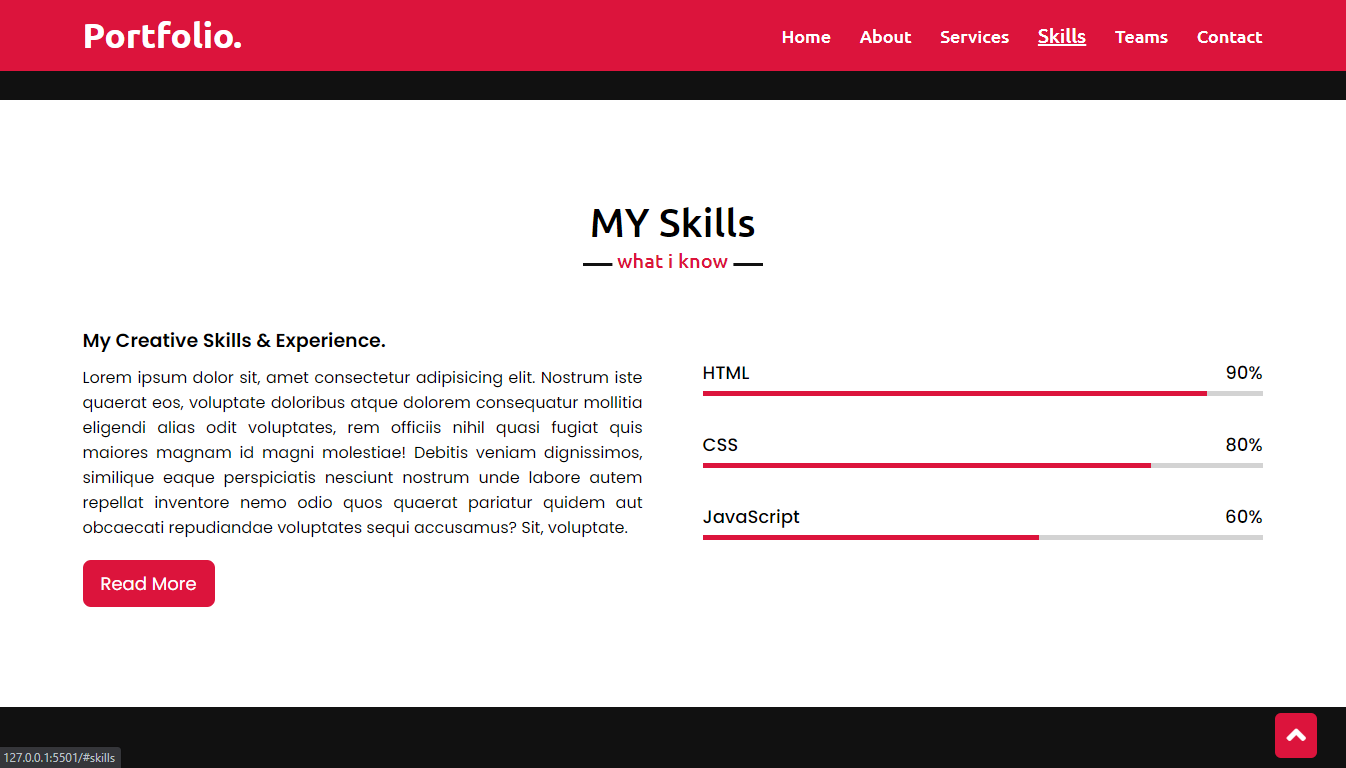
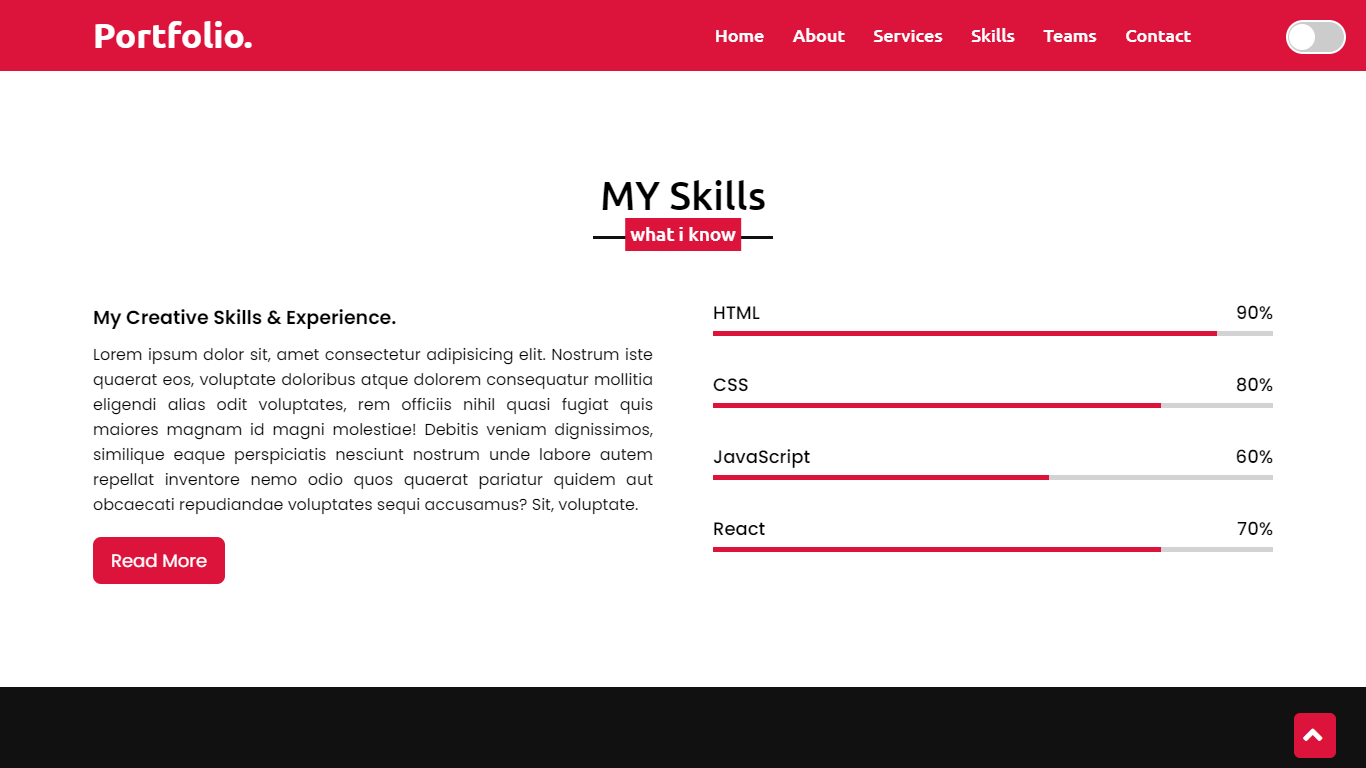
apdate skill page

diff --git a/index.html b/index.html
@@ -27,15 +27,15 @@
     </label>
   </div>
 
-  <div class="scroll-up-btn" data-aos="fade-down" >
+  <div class="scroll-up-btn" data-aos="fade-down">
     <i onclick="topFunction()" class="fas fa-angle-up"></i>
   </div>
   <nav class="navbar" id="navbar">
-    <div class="max-width"  data-aos="fade-left" >
+    <div class="max-width" data-aos="fade-left">
       <div class="logo">
         <a href="#">Portfo<span>lio.</span></a>
       </div>
-      <ul class="menu"  data-aos="fade-right" >
+      <ul class="menu" data-aos="fade-right">
         <li><a class="menuLink" href="#home">Home</a></li>
         <li><a class="menuLink" href="#about">About</a></li>
         <li><a class="menuLink" href="#services">Services</a></li>
@@ -57,7 +57,7 @@
         <div class="text-1" data-aos="fade-left">Hello, my name is</div>
         <div class="text-2" data-aos="fade-right">The Priyanka</div>
         <div class="text-3" data-aos="fade-left">And I'm a <span class="typing"></span></div>
-        <a href="#"  data-aos="flip-left" data-aos-delay ="1000">Hire me</a>
+        <a href="#" data-aos="flip-left" data-aos-delay="1000">Hire me</a>
       </div>
     </div>
   </section>
@@ -67,14 +67,14 @@
     <div class="max-width">
       <h2 class="title" data-aos="fade-up">About me</h2>
       <div class="about-content">
-        <div class="column left" data-aos="flip-right" data-aos-delay ="1000">
+        <div class="column left" data-aos="flip-right" data-aos-delay="1000">
           <img src="img/image2.jpg" alt="" />
         </div>
         <div class="column right">
           <div class="text" data-aos="fade-up" data-aos-delay="400">
             I'm The Priyanka and I'm a <span class="typing-2"></span>
           </div>
-          <p data-aos="fade-left" data-aos-delay ="800">
+          <p data-aos="fade-left" data-aos-delay="800">
             Lorem ipsum dolor sit amet consectetur adipisicing elit. Optio,
             eaque magni nesciunt ipsum velit aliquid nobis autem voluptates
             beatae ducimus quo voluptatibus maxime, incidunt id? Saepe
@@ -136,7 +136,7 @@
     <div class="max-width">
       <h2 class="title" data-aos="flip-right">MY Skills</h2>
       <div class="skills-content">
-        <div class="column left" data-aos="fade-right" >
+        <div class="column left" data-aos="fade-right">
           <div class="text">My Creative Skills & Experience.</div>
           <p>
             Lorem ipsum dolor sit, amet consectetur adipisicing elit. Nostrum
@@ -172,6 +172,13 @@
             </div>
             <div class="line js"></div>
           </div>
+          <div class="bars">
+            <div class="info">
+              <span>React</span>
+              <span>70%</span>
+            </div>
+            <div class="line react"></div>
+          </div>
         </div>
       </div>
     </div>
@@ -182,7 +189,7 @@
     <div class="max-width">
       <h2 class="title" data-aos="fade-up">My Teams</h2>
       <div class="carousel owl-carousel">
-        <div class="card" >
+        <div class="card">
           <div class="box">
             <img src="img/image5.jpg" alt="" />
             <div class="text">Someone name</div>
